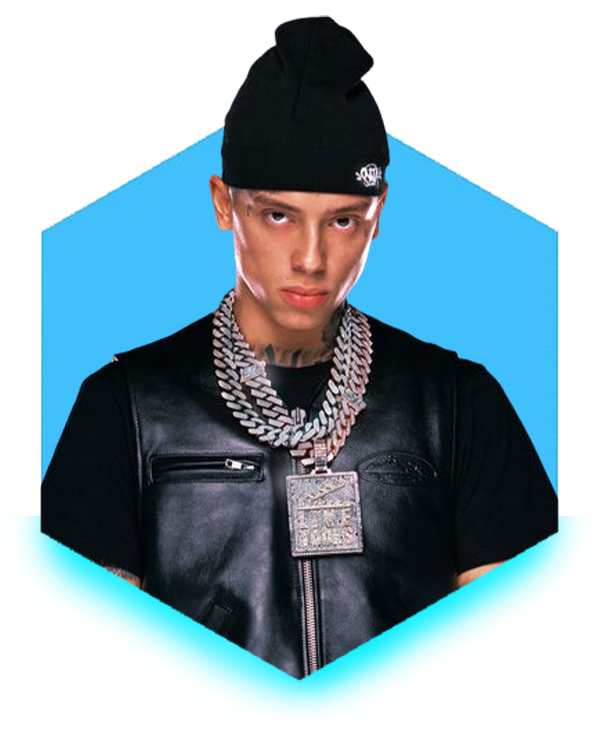
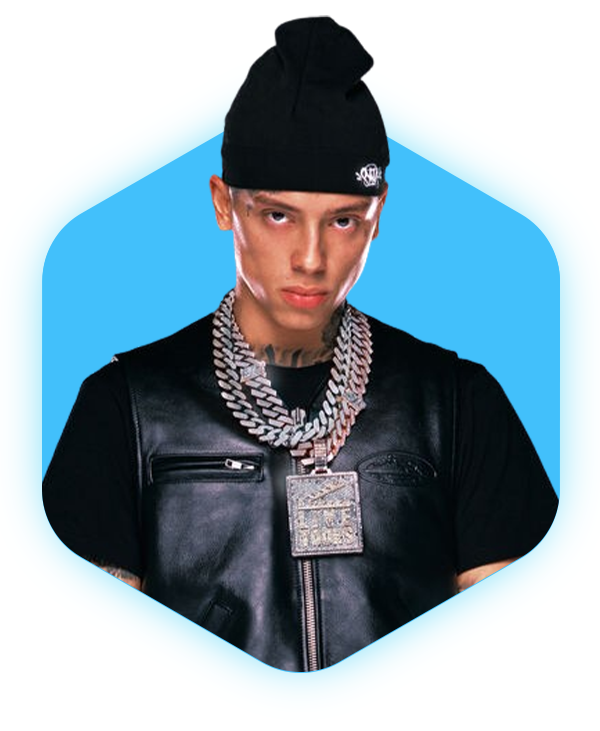
Changing of home picture trial

Changed region(s): [[0.03, 0.1505, 0.96, 0.9932]]

diff --git a/index.html b/index.html
@@ -61,7 +61,7 @@
     <section class="about" id="about">
         <!-- Add image here -->
         <div class="about-img">
-            <img src="./app/assets/pep-removebg-preview.png" alt="Ryan  Bradley">
+            <img src="./app/assets/Ryan-picture-home-portfolio.png" alt="Ryan  Bradley">
         </div>
         <!-- Add image here -->
 
